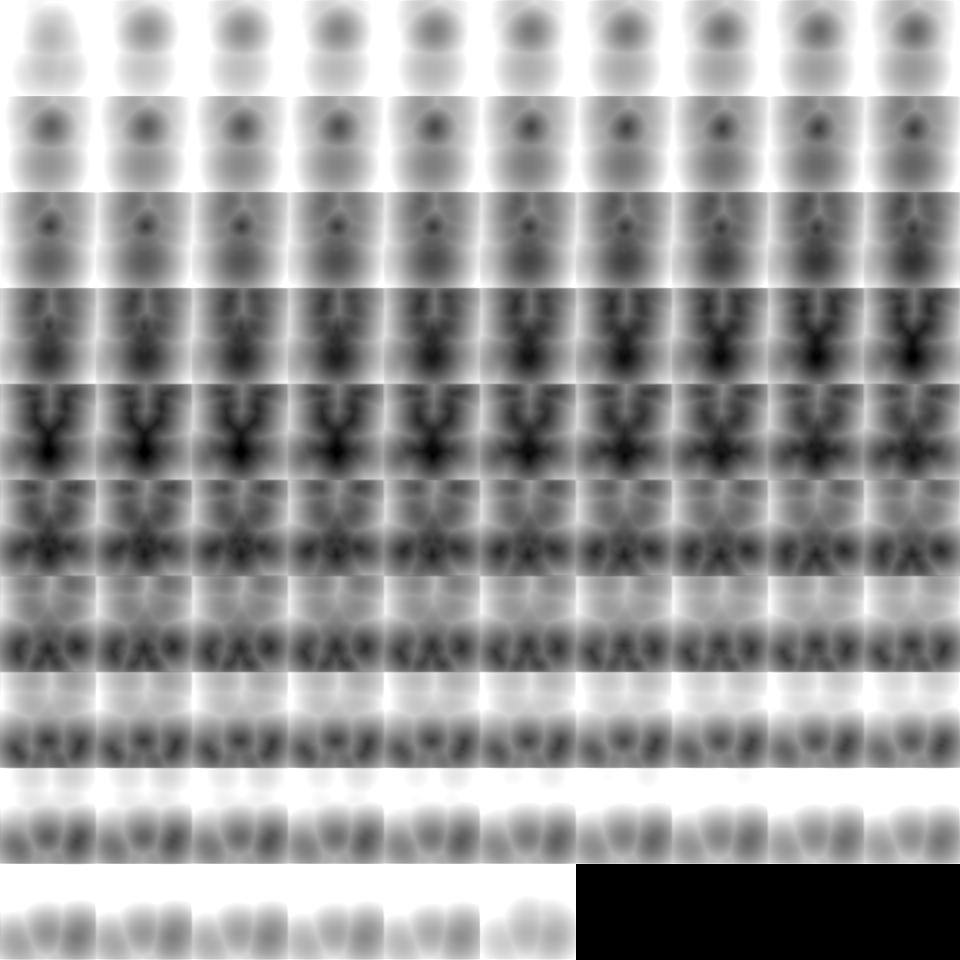
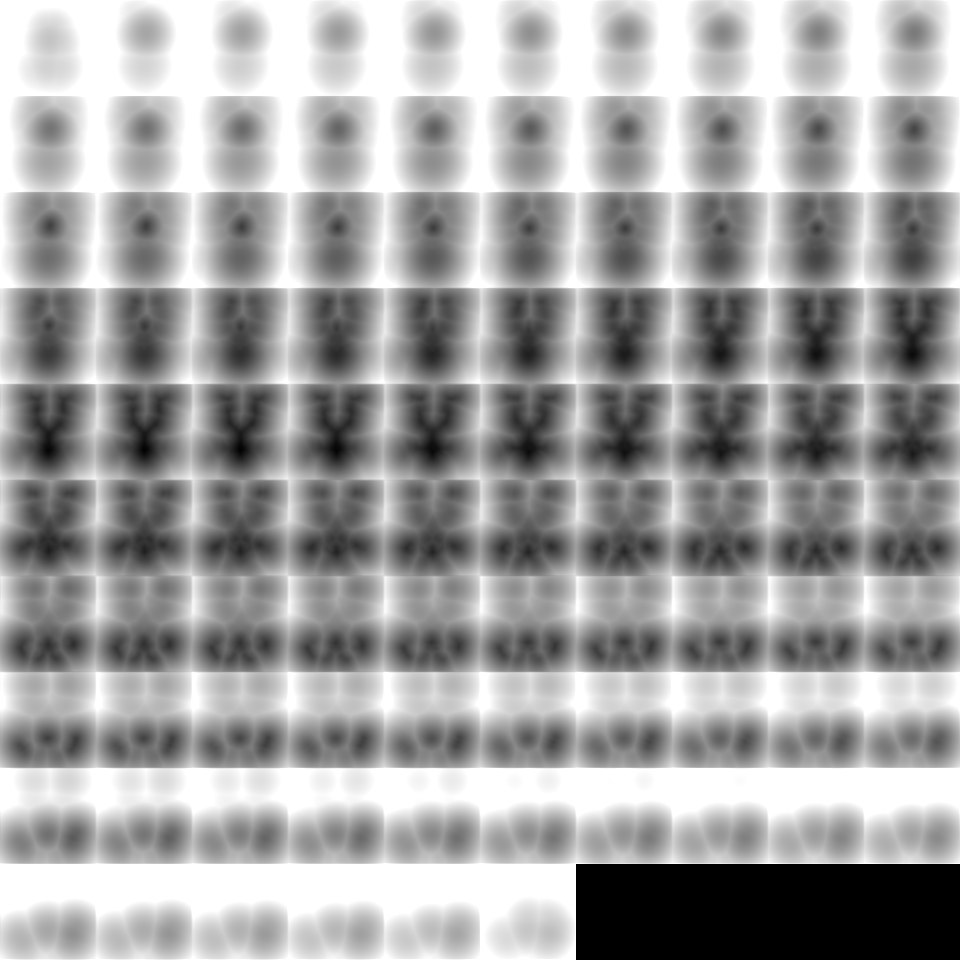
Remove the SDF grid seam artifact

diff --git a/script.js b/script.js
@@ -244,6 +244,11 @@
            sampled with manual trilinear filtering (bilinear in-slice via
            the sampler, lerp across the two nearest slices here) */
         "float sdfAtlas(sampler2D s, vec3 p, vec2 grid){",
+        // sample at 87% scale: the grid then covers a 15% larger world
+        // volume, so surfaces pushed outward by the ball or the morph
+        // bulge can no longer cross the grid walls (whose analytic
+        // outside-extension shows as a flat seam)
+        "    p *= 0.87;",
         "    float N = grid.x, C = grid.y;",
         "    vec3 g = clamp((p + 1.2) / 2.4, 0.0, 1.0);",
         "    float zi = g.z * (N - 1.0);",
@@ -255,7 +260,7 @@
         "    float e = mix(texture2D(s, uv0).r, texture2D(s, uv1).r, zi - z0);",
         "    float d = e*1.2 - 0.3;",
         "    vec3 q = abs(p) - vec3(1.2);",             // beyond the grid, add box distance
-        "    return d + length(max(q, vec3(0.0)));",
+        "    return (d + length(max(q, vec3(0.0)))) / 0.87;",
         "}",
 
         "float sdLink(vec3 p){",
